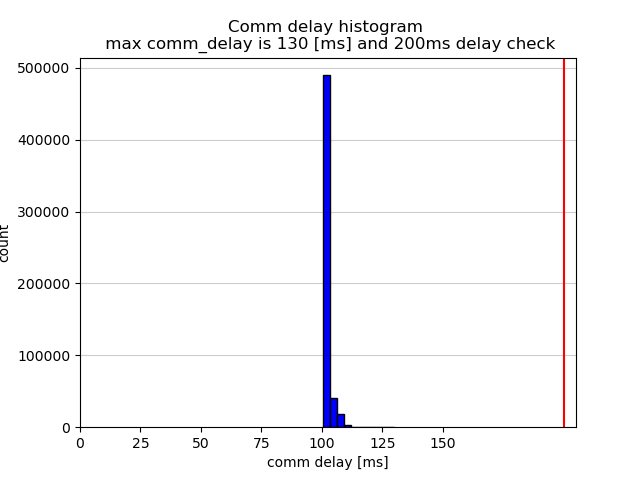
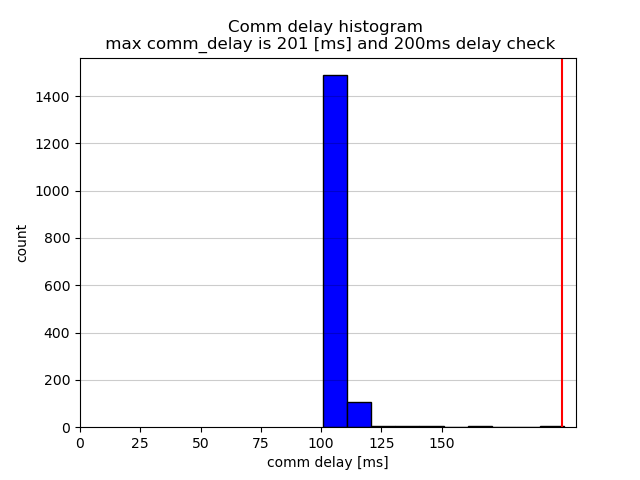
100 drones

diff --git a/mader/scripts/run_many_sims_multi_agent.py b/mader/scripts/run_many_sims_multi_agent.py
@@ -38,13 +38,14 @@ if __name__ == '__main__':
 
     # parameters
     is_oldmader=False
-    num_of_sims=110
-    num_of_agents=10
-    how_long_to_wait=20 #[s]
+    num_of_sims=1
+    num_of_agents=100
+    how_long_to_wait=1000 #[s]
     if is_oldmader:
         cd_list = [0, 50, 100, 200, 300]
     else:
-        cd_list = [200, 300]
+        # cd_list = [200, 300]
+        cd_list = [100]
 
     # folder initialization
     folder_bags_list = []
@@ -61,8 +62,8 @@ if __name__ == '__main__':
             dc_list = [56, 51, 50.8, 35, 15] #dc_list[0] will be used for old mader (which doesn't need delay check) so enter some value (default 0)
             # dc_list = [130] #dc_list[0] will be used for old mader (which doesn't need delay check) so enter some value (default 0)
         elif cd == 100:
-            dc_list = [105, 101.3, 101, 75, 25] #dc_list[0] will be used for old mader (which doesn't need delay check) so enter some value (default 0)
-            # dc_list = [200] #dc_list[0] will be used for old mader (which doesn't need delay check) so enter some value (default 0)
+            # dc_list = [105, 101.3, 101, 75, 25] #dc_list[0] will be used for old mader (which doesn't need delay check) so enter some value (default 0)
+            dc_list = [200] #dc_list[0] will be used for old mader (which doesn't need delay check) so enter some value (default 0)
         elif cd == 200:
             dc_list = [300]
         elif cd == 300:

diff --git a/mader/scripts/launch_many_drones.py b/mader/scripts/launch_many_drones.py
@@ -56,8 +56,8 @@ if __name__ == '__main__':
     # formation="sphere", "square" "circle"
     formation="circle"
     commands = []
-    num_of_agents=10; 
-    radius=10;
+    num_of_agents=100; 
+    radius=30;
 
 
     if(formation=="sphere"):
